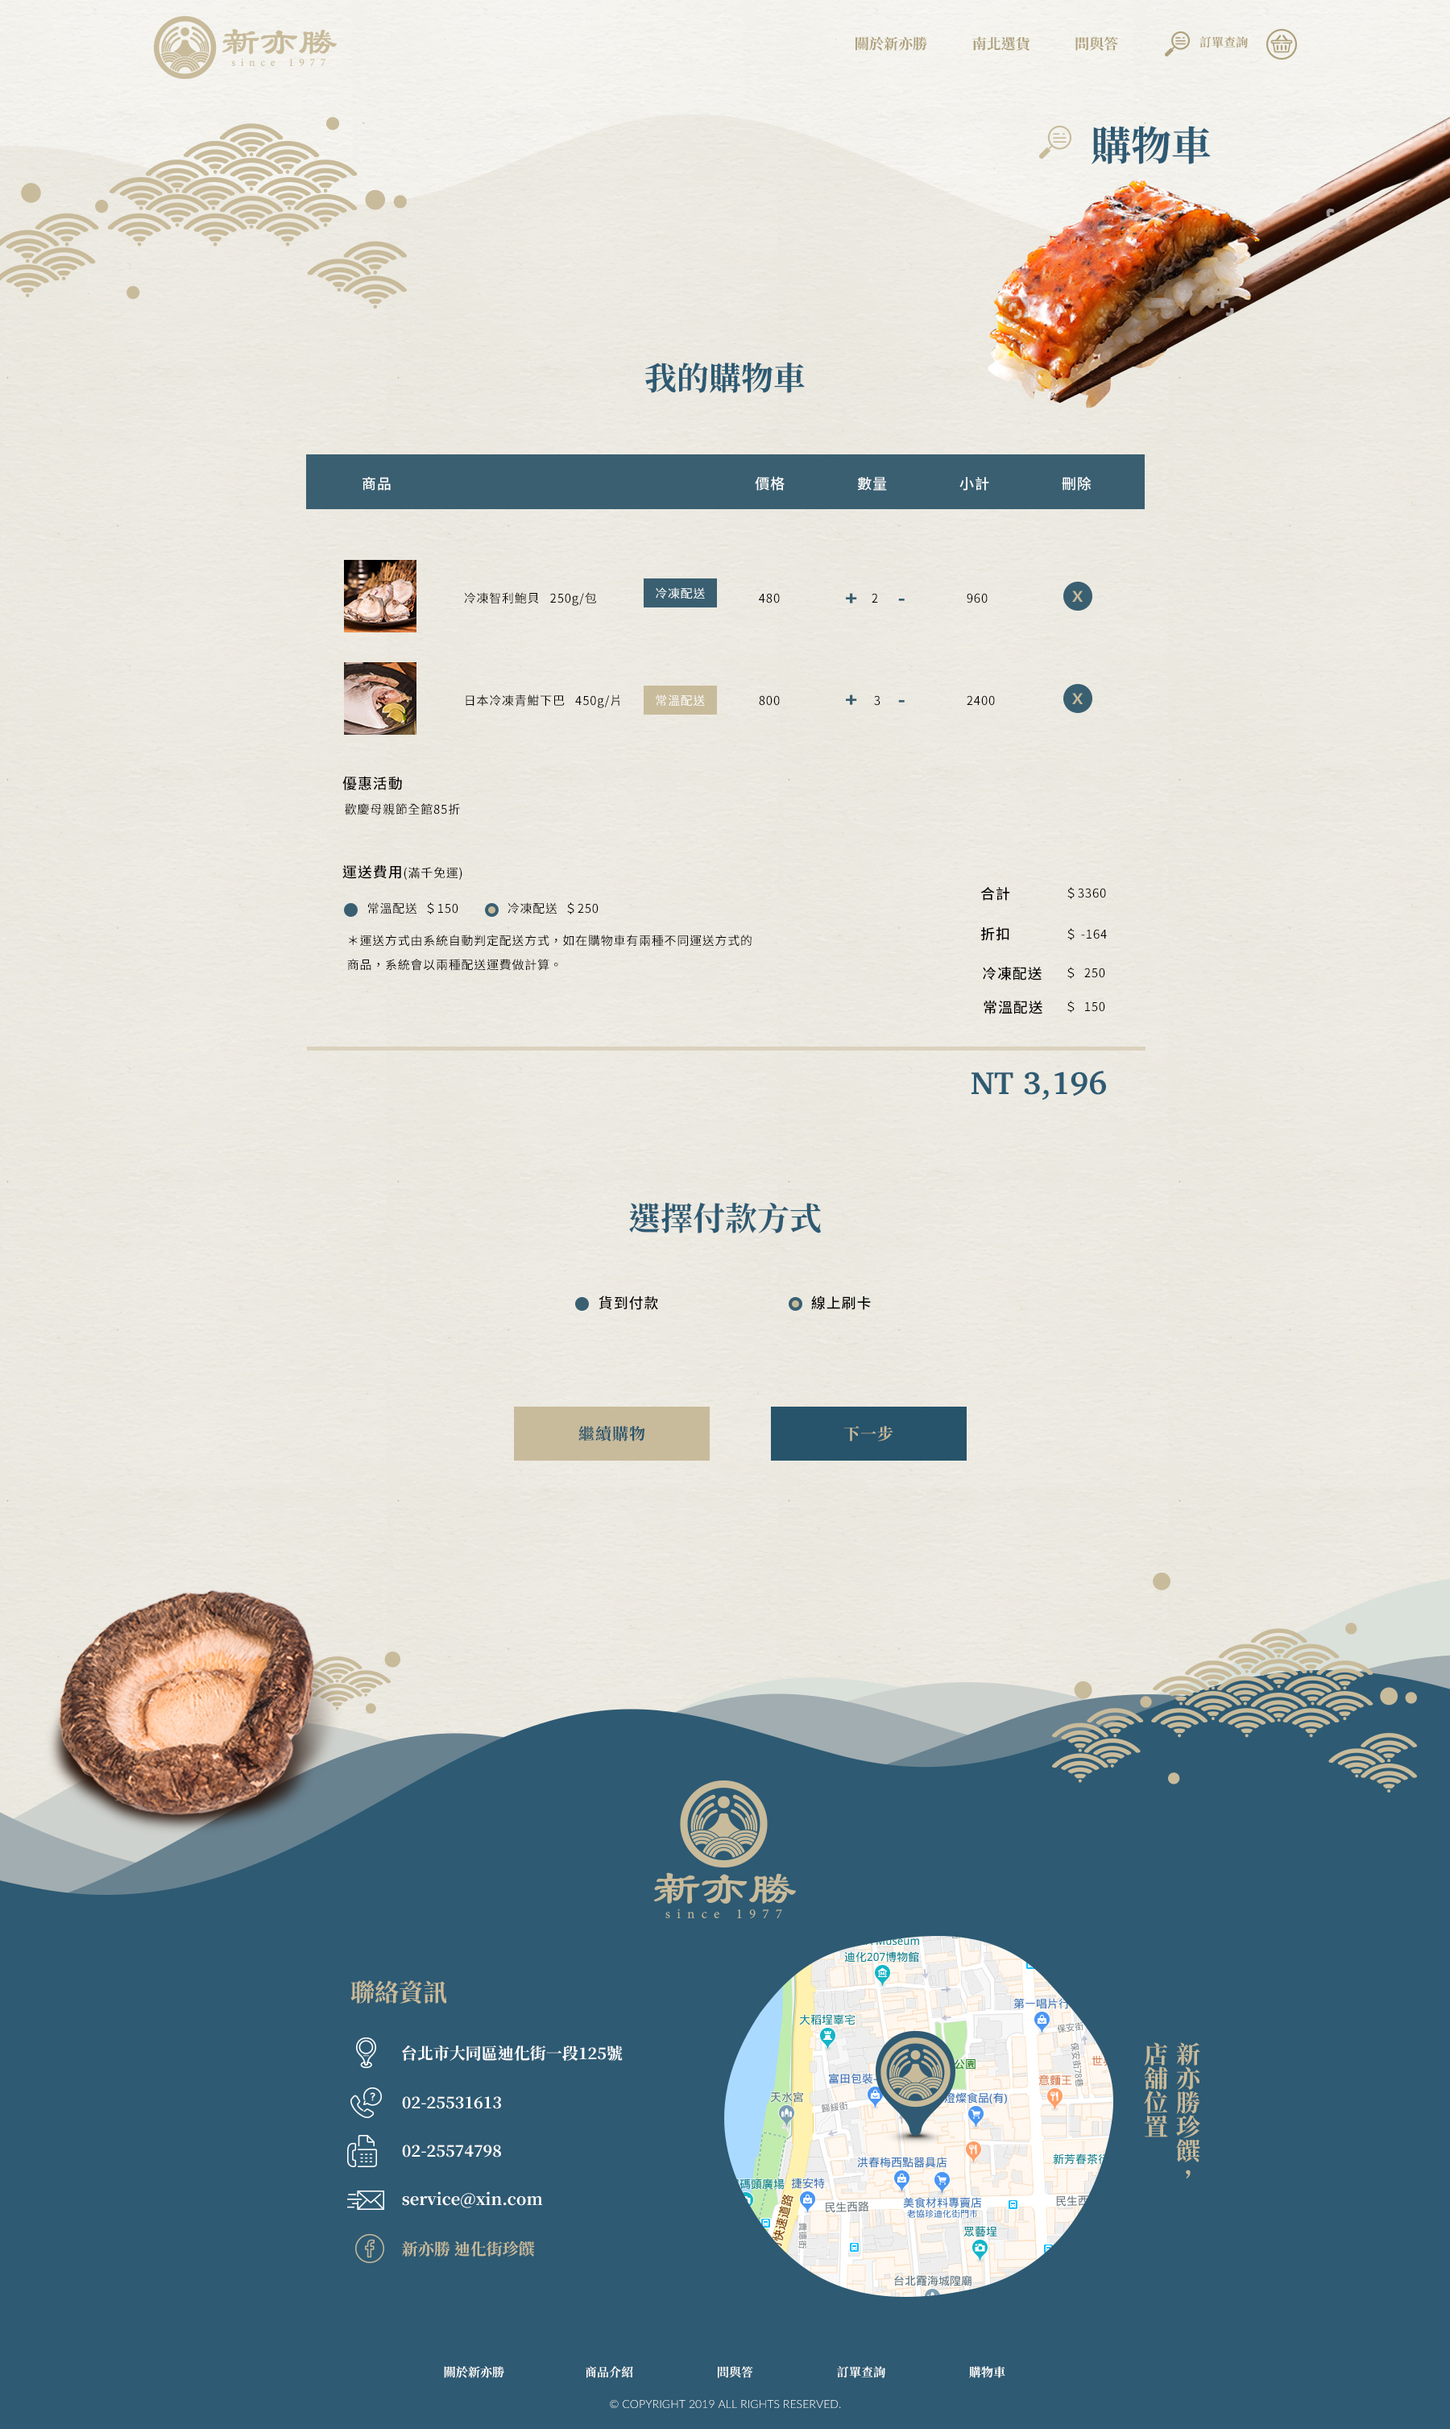
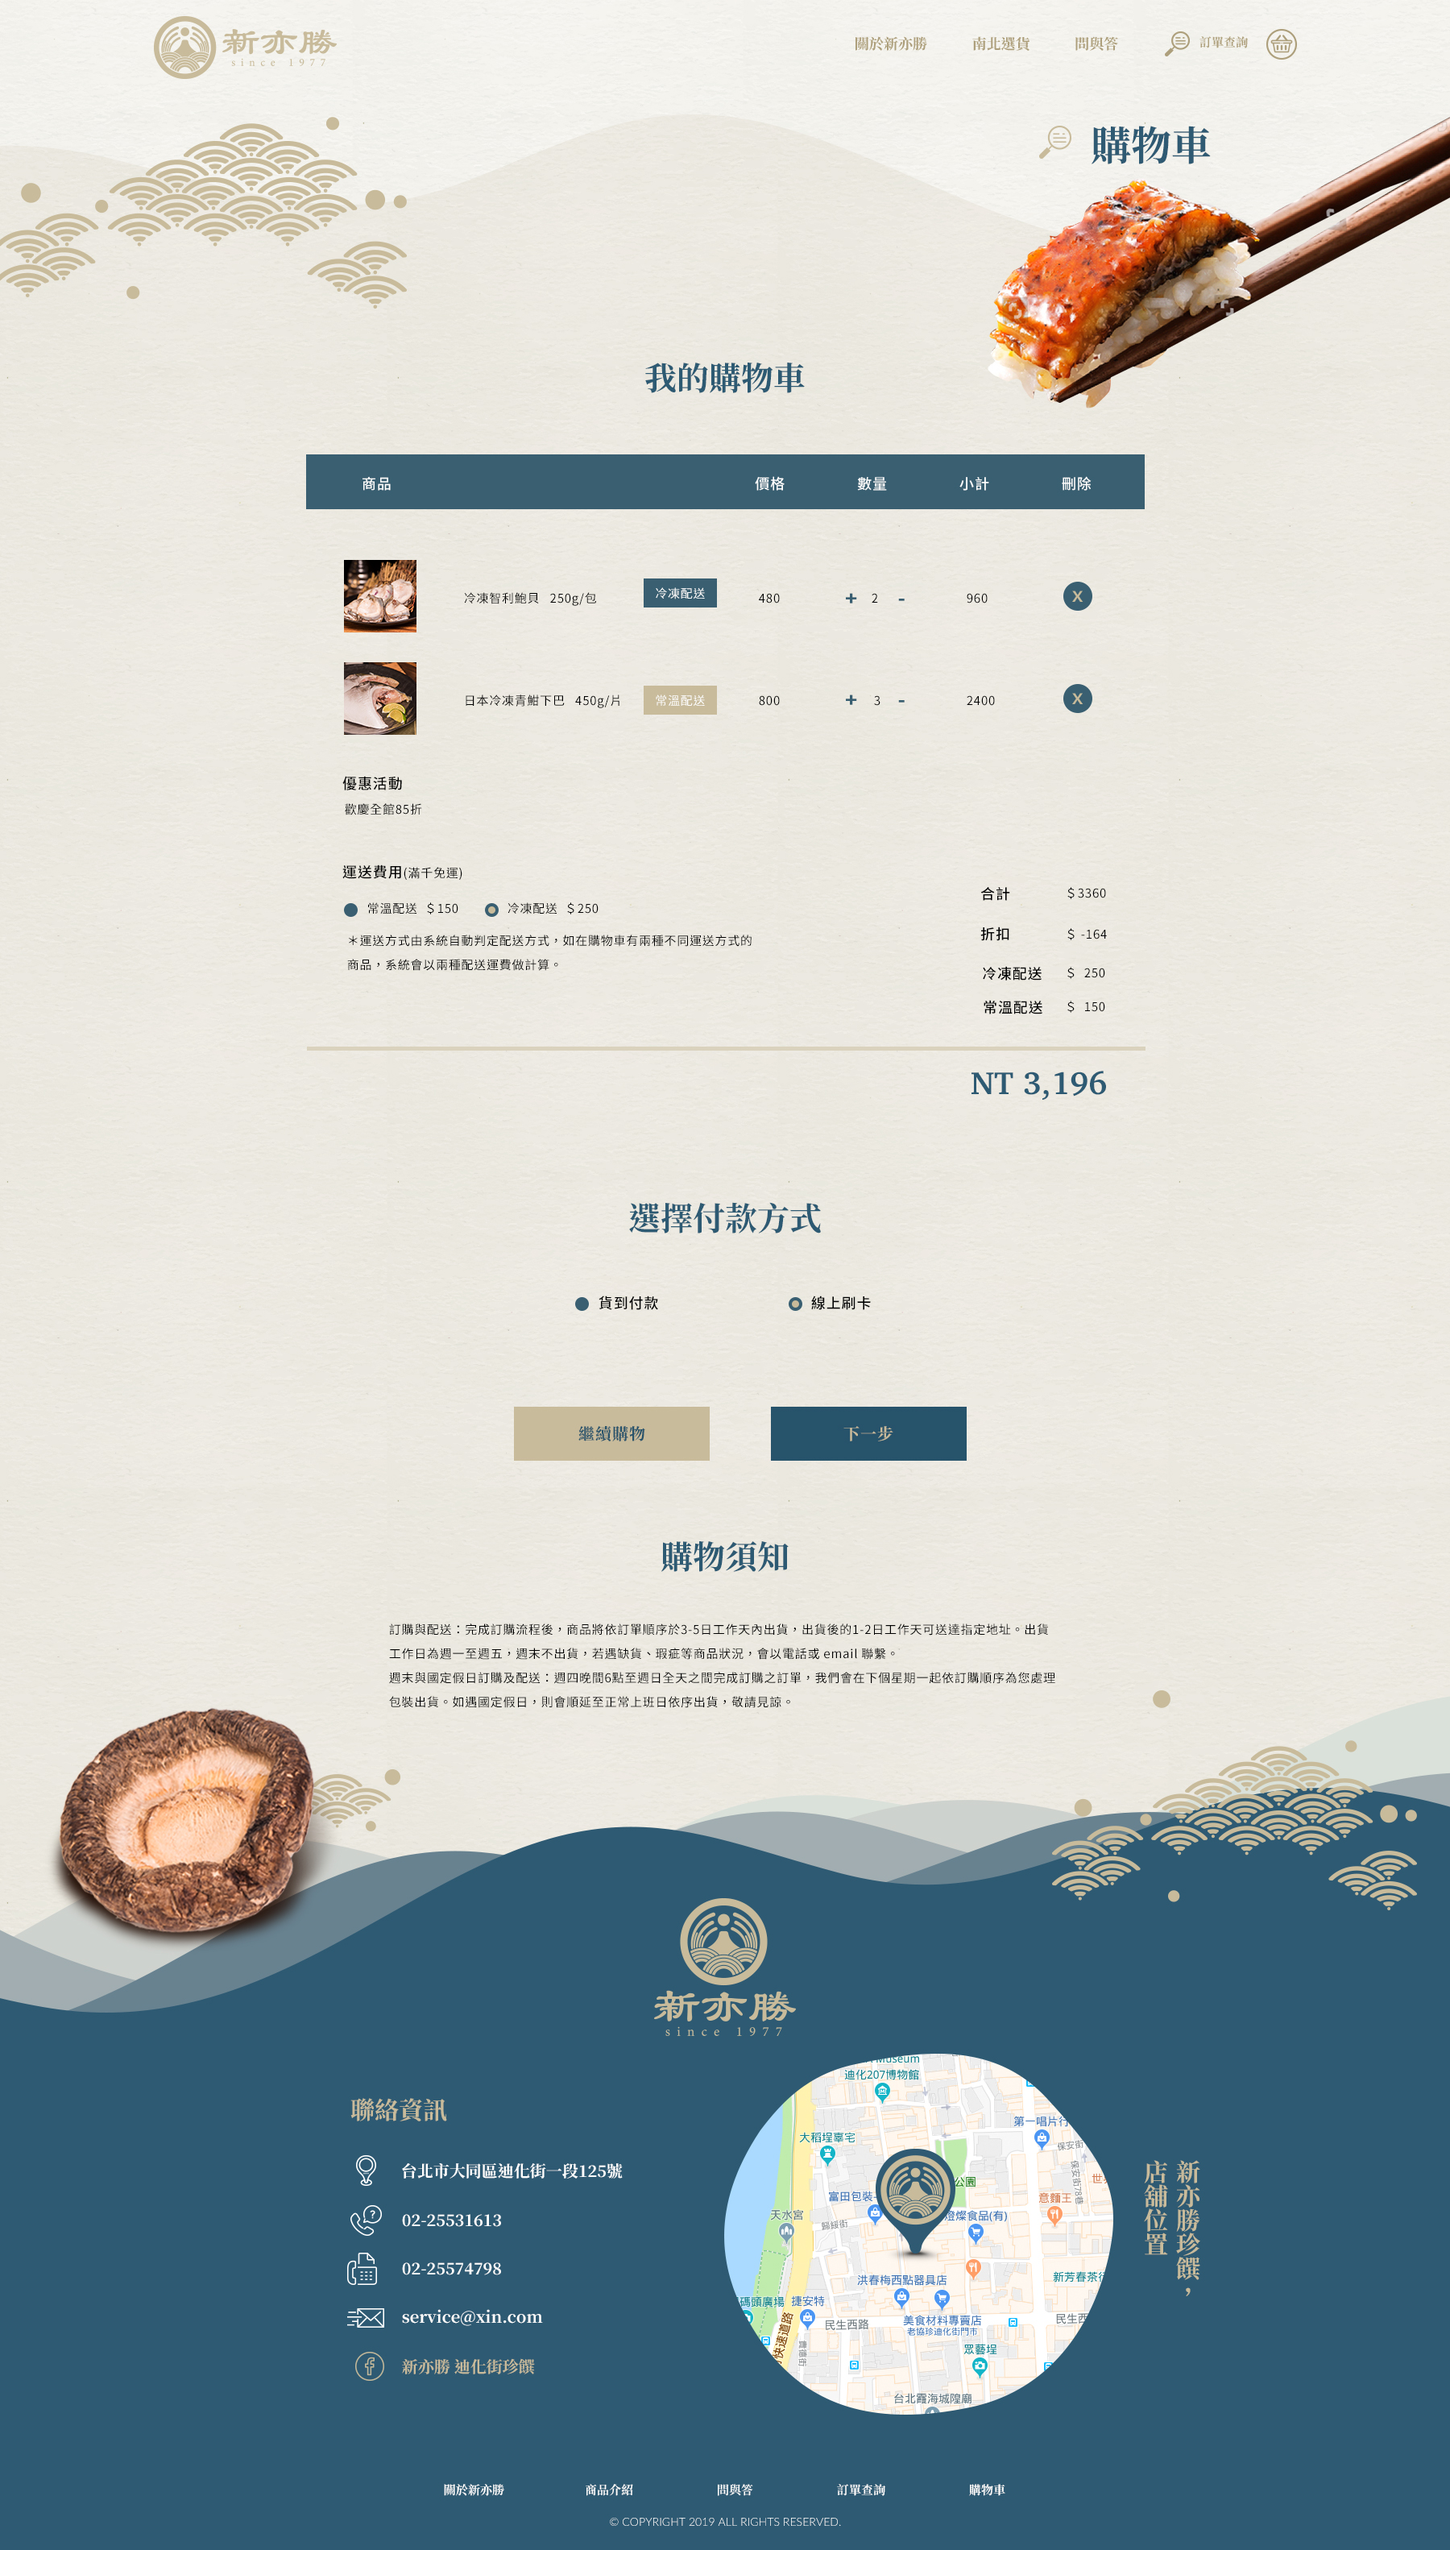
modify

diff --git a/docs/about.html b/docs/about.html
@@ -11,7 +11,7 @@ body {background-position:center top;background-repeat:no-repeat; text-align:cen
 
 </head>
 <body style="background-image:url(images/about.jpg);">
-       <p><img src="images/spacer.gif" width="1800px" height=" 5760px"  border="0" usemap="#Map">
+       <p><img src="images/spacer.gif" width="1800px" height="6410px"  border="0" usemap="#Map">
          <map name="Map">
          </map>
        </p>

diff --git a/docs/shop.html b/docs/shop.html
@@ -11,7 +11,7 @@ body {background-position:center top;background-repeat:no-repeat; text-align:cen
 
 </head>
 <body style="background-image:url(images/shop.jpg);">
-       <p><img src="images/spacer.gif" width="1800px" height="3015px"  border="0" usemap="#Map">
+       <p><img src="images/spacer.gif" width="1800px" height="3165px"  border="0" usemap="#Map">
          <map name="Map">
          </map>
        </p>
